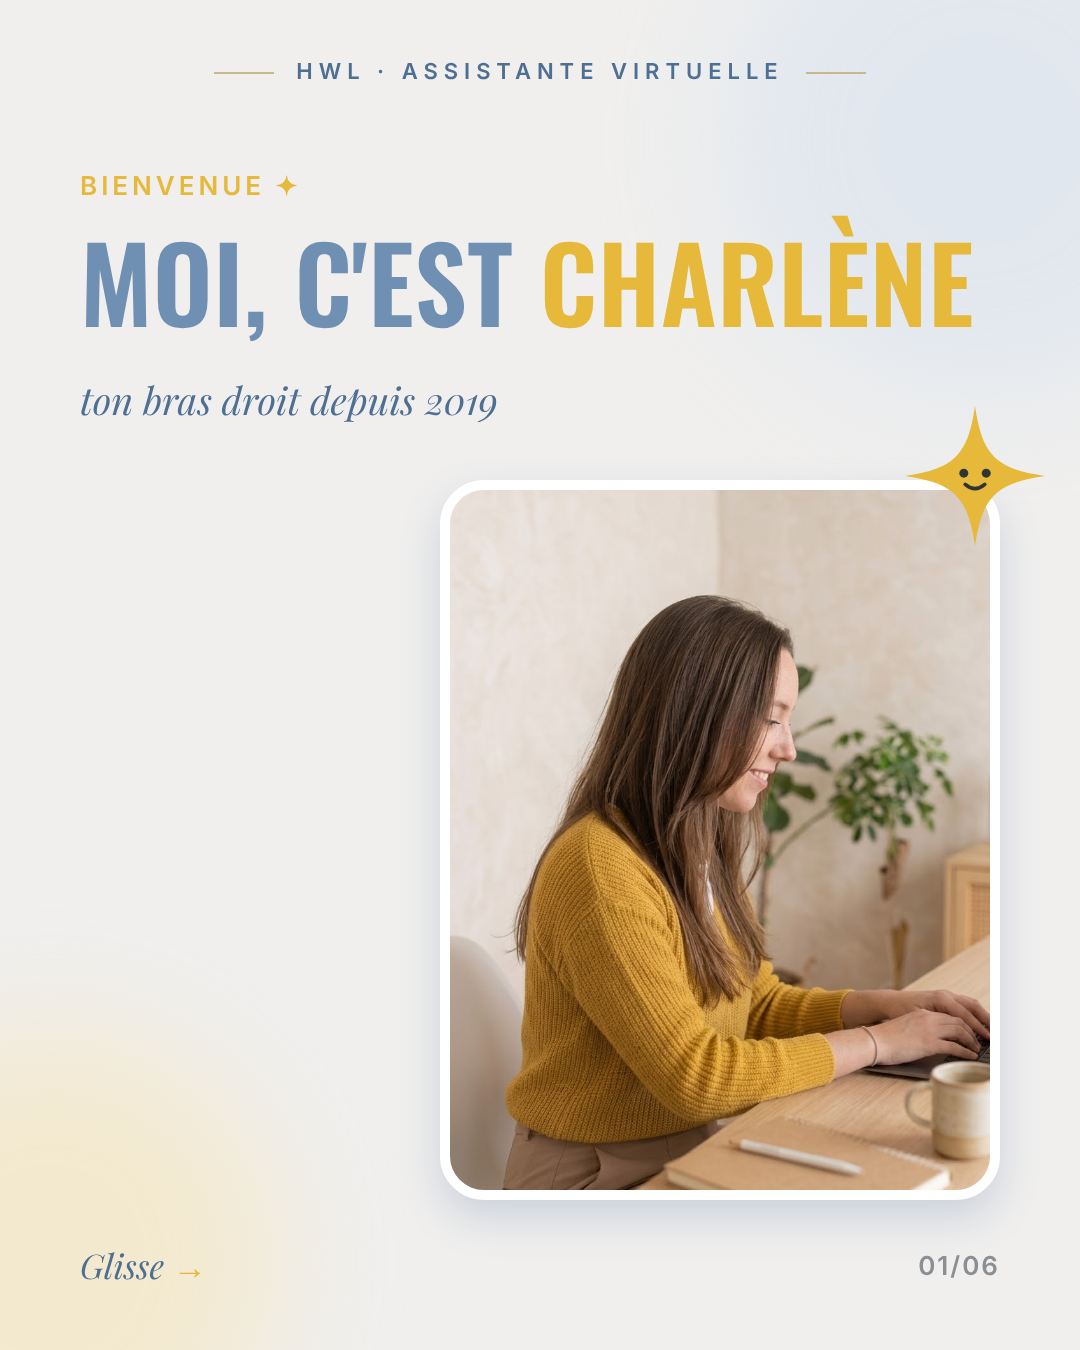
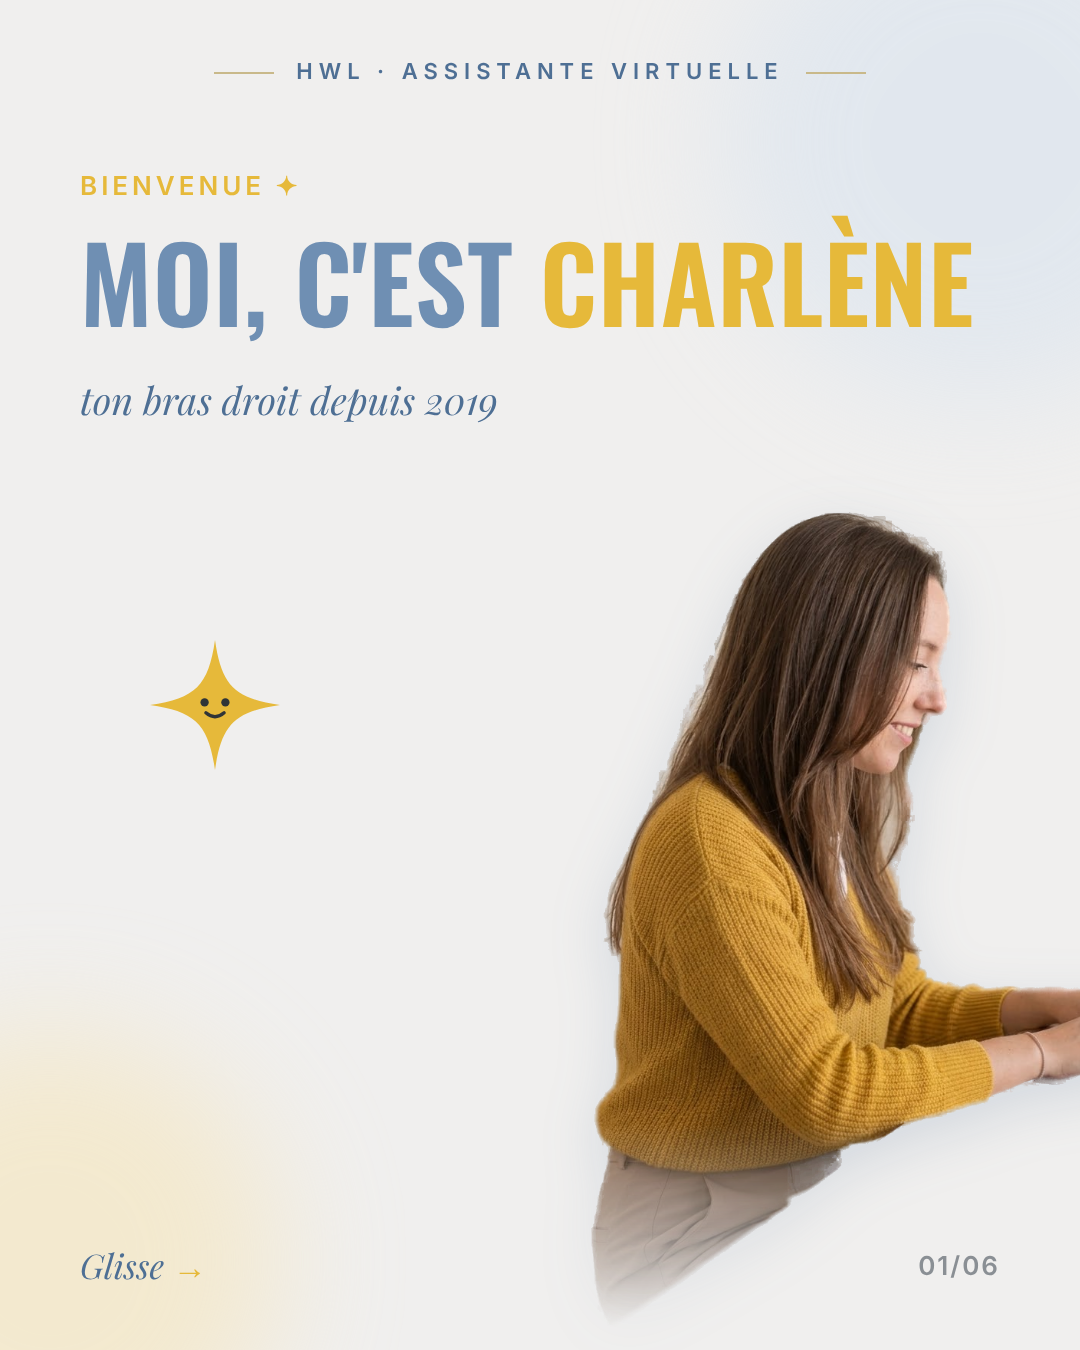
HWL épingles : détourage photo et illustration, camping-car, calendrier
Claude-Session: https://claude.ai/code/session_01GjorPA3wJ69voC96t1xUmh

Changed region(s): [[0.3972, 0.3111, 1.0, 0.9644], [0.1528, 0.4667, 0.2444, 0.56]]

diff --git a/hwl/outils/carrousels.py b/hwl/outils/carrousels.py
@@ -54,6 +54,8 @@ STAR = """<svg width="{s}" height="{s}" viewBox="0 0 100 100"><path d="M50 0 C55
 SPARK = """<svg width="{s}" height="{s}" viewBox="0 0 100 100"><path d="M50 0 C55 35 65 45 100 50 C65 55 55 65 50 100 C45 65 35 55 0 50 C35 45 45 35 50 0Z" fill="#E6B93A"/></svg>"""
 
 ILL = {
+"van": """<svg width="620" height="330" viewBox="0 0 310 165"><ellipse cx="155" cy="150" rx="140" ry="8" fill="#E6E1DA"/><path d="M20 120 V58 a14 14 0 0 1 14 -14 H200 l44 34 h28 a12 12 0 0 1 12 12 V120 a8 8 0 0 1 -8 8 H28 a8 8 0 0 1 -8 -8Z" fill="#fff" stroke="#6F8FB3" stroke-width="6" stroke-linejoin="round"/><rect x="20" y="92" width="264" height="12" fill="#E6B93A"/><rect x="40" y="58" width="44" height="24" rx="6" fill="#DCE5EF" stroke="#6F8FB3" stroke-width="4"/><rect x="96" y="58" width="44" height="24" rx="6" fill="#DCE5EF" stroke="#6F8FB3" stroke-width="4"/><rect x="152" y="58" width="34" height="50" rx="5" fill="#F0EFEE" stroke="#6F8FB3" stroke-width="4"/><path d="M200 50 l36 28 h-36Z" fill="#DCE5EF" stroke="#6F8FB3" stroke-width="4" stroke-linejoin="round"/><rect x="60" y="22" width="110" height="18" rx="5" fill="#F3DC8E" stroke="#E6B93A" stroke-width="3"/><circle cx="74" cy="128" r="20" fill="#4E6F94"/><circle cx="74" cy="128" r="8" fill="#F0EFEE"/><circle cx="238" cy="128" r="20" fill="#4E6F94"/><circle cx="238" cy="128" r="8" fill="#F0EFEE"/><path d="M8 150 h20 M40 150 h20 M250 150 h20 M282 150 h20" stroke="#C9B98A" stroke-width="4" stroke-linecap="round"/></svg>""",
+"agenda": """<svg width="560" height="560" viewBox="0 0 200 200"><rect x="22" y="32" width="156" height="150" rx="16" fill="#fff" stroke="#6F8FB3" stroke-width="6"/><path d="M22 48 a16 16 0 0 1 16 -16 H162 a16 16 0 0 1 16 16 V68 H22Z" fill="#6F8FB3"/><rect x="54" y="16" width="10" height="30" rx="5" fill="#4E6F94"/><rect x="136" y="16" width="10" height="30" rx="5" fill="#4E6F94"/><g fill="#F0EFEE"><rect x="36" y="80" width="24" height="20" rx="5"/><rect x="66" y="80" width="24" height="20" rx="5"/><rect x="96" y="80" width="24" height="20" rx="5"/><rect x="126" y="80" width="24" height="20" rx="5"/><rect x="36" y="108" width="24" height="20" rx="5"/><rect x="96" y="108" width="24" height="20" rx="5"/><rect x="126" y="108" width="24" height="20" rx="5"/><rect x="36" y="136" width="24" height="20" rx="5"/><rect x="66" y="136" width="24" height="20" rx="5"/><rect x="126" y="136" width="24" height="20" rx="5"/></g><rect x="66" y="108" width="24" height="20" rx="5" fill="#F3DC8E"/><path d="M71 118 l5 5 l10 -10" stroke="#E6B93A" stroke-width="4" fill="none" stroke-linecap="round" stroke-linejoin="round"/><rect x="96" y="136" width="24" height="20" rx="5" fill="#DCE5EF"/><circle cx="168" cy="170" r="24" fill="#E6B93A"/><path d="M168 158 v13 l9 6" stroke="#fff" stroke-width="5" fill="none" stroke-linecap="round"/></svg>""",
 "facture": """<svg width="420" height="420" viewBox="0 0 200 200"><rect x="45" y="20" width="110" height="150" rx="10" fill="#fff" stroke="#6F8FB3" stroke-width="6"/><rect x="62" y="44" width="56" height="10" rx="4" fill="#DCE5EF"/><rect x="62" y="66" width="76" height="8" rx="4" fill="#DCE5EF"/><rect x="62" y="82" width="76" height="8" rx="4" fill="#DCE5EF"/><rect x="62" y="98" width="50" height="8" rx="4" fill="#DCE5EF"/><rect x="62" y="128" width="76" height="20" rx="6" fill="#F3DC8E"/><circle cx="150" cy="150" r="30" fill="#E6B93A"/><path d="M137 150 l9 9 l18 -19" stroke="#fff" stroke-width="7" fill="none" stroke-linecap="round" stroke-linejoin="round"/></svg>""",
 "inbox": """<svg width="420" height="360" viewBox="0 0 200 170"><path d="M30 70 L60 25 H140 L170 70 V140 a10 10 0 0 1 -10 10 H40 a10 10 0 0 1 -10 -10Z" fill="#fff" stroke="#6F8FB3" stroke-width="6" stroke-linejoin="round"/><path d="M30 70 H70 a30 22 0 0 0 60 0 H170" fill="none" stroke="#6F8FB3" stroke-width="6"/><rect x="80" y="8" width="40" height="52" rx="5" fill="#F3DC8E" stroke="#E6B93A" stroke-width="4"/><path d="M100 30 v28 m-12 -12 l12 12 l12 -12" stroke="#4E6F94" stroke-width="5" fill="none" stroke-linecap="round"/></svg>""",
 "calendrier": """<svg width="400" height="380" viewBox="0 0 200 190"><rect x="25" y="35" width="150" height="140" rx="14" fill="#fff" stroke="#6F8FB3" stroke-width="6"/><rect x="25" y="35" width="150" height="38" rx="14" fill="#6F8FB3"/><rect x="25" y="58" width="150" height="15" fill="#6F8FB3"/><rect x="58" y="20" width="10" height="30" rx="5" fill="#4E6F94"/><rect x="132" y="20" width="10" height="30" rx="5" fill="#4E6F94"/><text x="100" y="140" text-anchor="middle" font-family="Oswald" font-weight="600" font-size="62" fill="#E6B93A">1/09</text><text x="100" y="62" text-anchor="middle" font-family="Oswald" font-weight="600" font-size="20" fill="#fff" letter-spacing="3">2027</text></svg>""",
@@ -106,6 +108,12 @@ def page(slide, i, n):
         if g.get("star"):
             sx = (1080 - (r if r is not None else (1080-w)//2)) - 95
             ill += f'<div style="position:absolute;left:{sx}px;bottom:{b+h-70}px">{STAR.format(s=140)}</div>'
+    if slide.get("cutout"):
+        c = slide["cutout"]
+        ill += (f'<img src="file://{(ROOT / c["src"]).resolve()}" style="position:absolute;width:{c["w"]}px;right:{c.get("right",80)}px;'
+                f'bottom:{c.get("bottom",120)}px;filter:drop-shadow(0 18px 28px rgba(78,111,148,.18))">')
+        if c.get("star"):
+            ill += f'<div style="position:absolute;left:{c["star"][0]}px;top:{c["star"][1]}px">{STAR.format(s=130)}</div>'
     glisse = '<div class="glisse">Glisse <span>→</span></div>' if i < n else '<div></div>'
     bottom = f'<div class="bottom">{glisse}<div class="pg">{i:02d}/{n:02d}</div></div>'
     return f'<!doctype html><html><head><meta charset="utf-8"><style>{CSS}</style></head><body>{halos}<div class="top">HWL · ASSISTANTE VIRTUELLE</div>{inner}{ill}{deco}{bottom}</body></html>'
